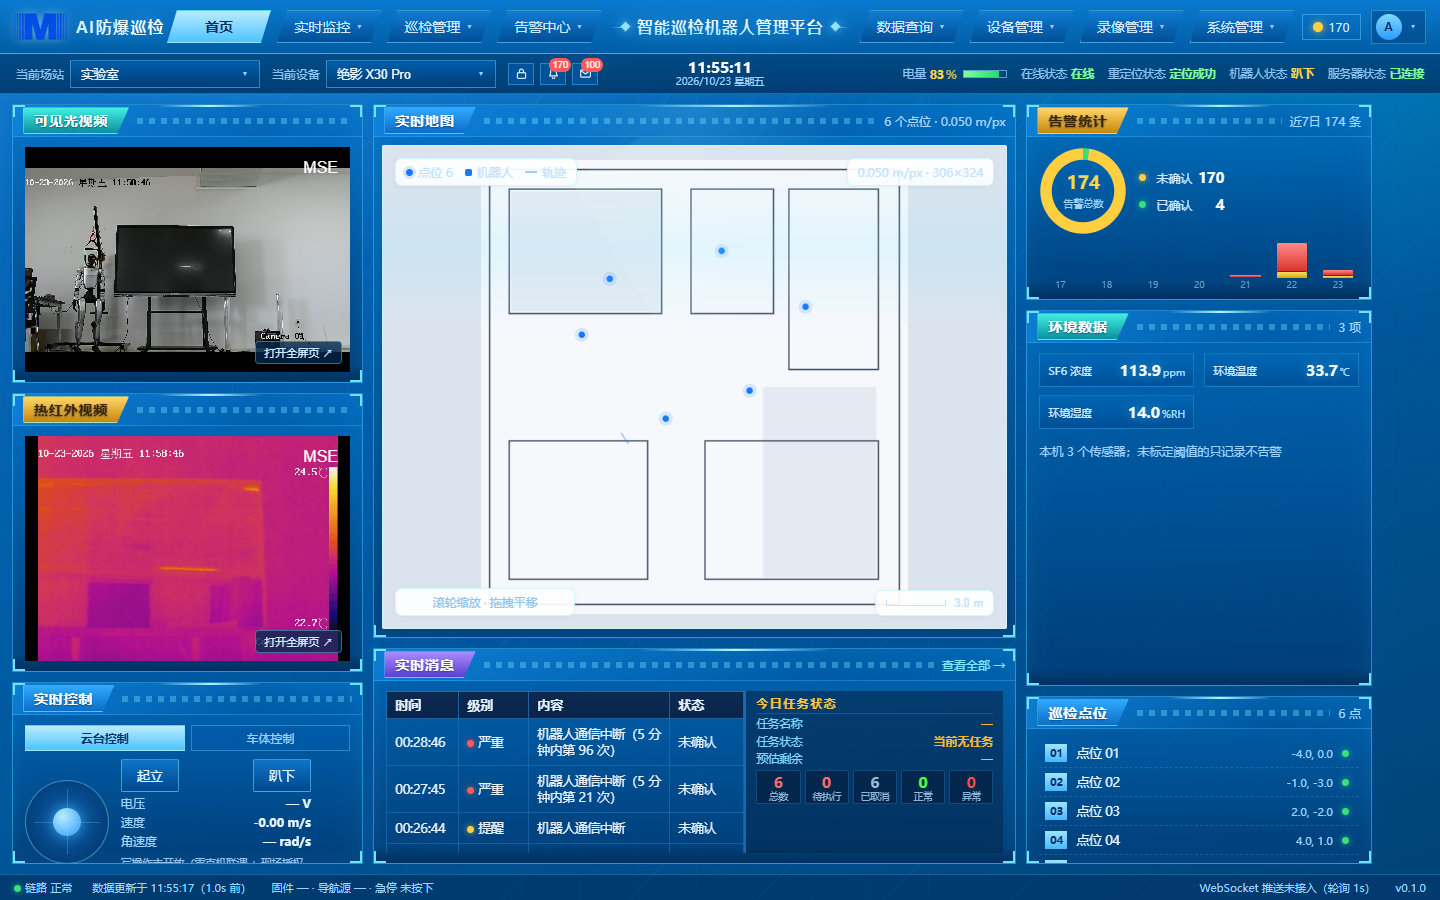
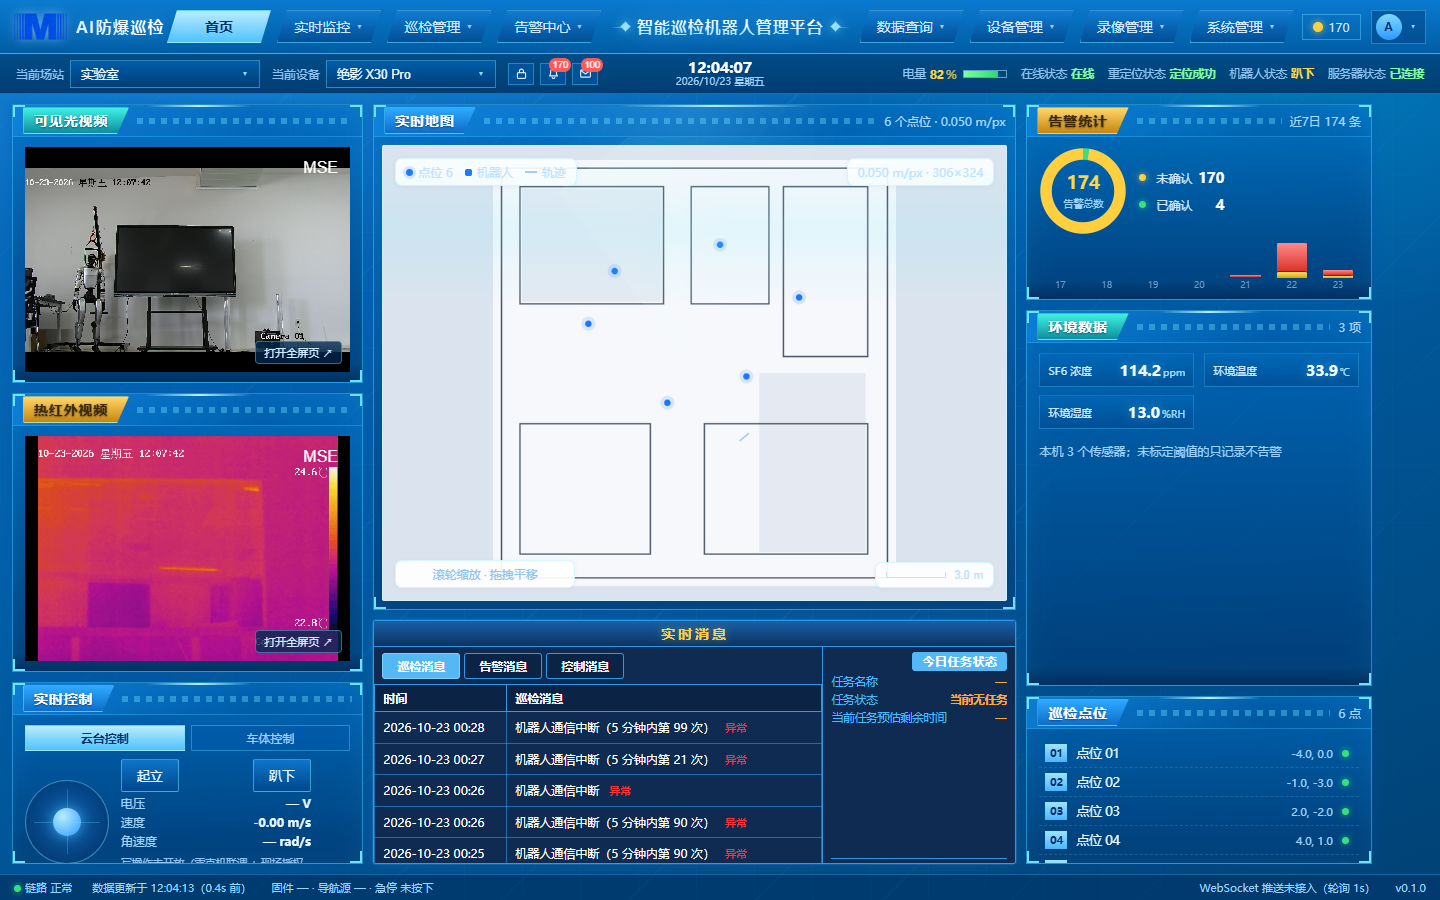
style(dashboard): 实时消息 1:1 复刻参考图（按豆包逐项描述的实现）
按"实时消息模块完整 UI 描述（1:1 复刻参考）"重写该模块，不再用通用 ScadaPanel：
- 标题：居中、金黄 #FFD040、字距 3px、轻微投影
- Tab：巡检消息/告警消息/控制消息；激活 #54B8F5 浅亮蓝 + 白字，未激活深蓝 #0B2344
- 表格：两列（时间 / 巡检消息），表头深蓝 #0B2344、1px #3098E8 网格线、正文纯白
- 右栏：浅蓝 #54B8F5 标题块「今日任务状态」，键 #48BCFF、值 #FFA82E 加粗
- 计数：三组 ↑ 红 #FF3333 / 白 #FFFFFF / 绿 #30D040，组下方小字标签，组间 #3098E8 竖线
- 栅格：左 70% / 竖分隔线 / 右 30%
- 容器：#0F2B52 底、1px #3098E8 边框、3px 微圆角、轻外发光

数据映射：
- 第一组 总数/待执行/已完成 ← task-runs 统计
- 第二组 终止/异常/正常 ← cancelled / failed / done
- 第三组 告警/异常/正常 ← 未确认告警 / 严重告警 / 已确认

高度 262px（原 158 太小，计数被裁）。

验证：docs/screenshots/msg-split.png、dash-jcrob.png

diff --git a/web/src/pages/Dashboard.vue b/web/src/pages/Dashboard.vue
@@ -154,6 +154,11 @@ function openVideo(which: string) {
   toast(`${which}通道未接入：真机联调后按 RTSP / WebRTC 接入`, 'warn', 3000)
 }
 const busyMotion = ref(false)
+const msgTab = ref<'patrol' | 'alarm' | 'ctrl'>('patrol')
+const msgRows = computed(() => robot.alarms.slice(0, 6))
+const alarmUnacked = computed(() => robot.alarms.filter((a) => !a.acked_at).length)
+const alarmAcked = computed(() => robot.alarms.filter((a) => !!a.acked_at).length)
+const alarmCritical = computed(() => robot.alarms.filter((a) => a.level === 'critical').length)
 
 // 今日任务状态（右半边）
 type RunRow = { id: number; name: string; status: string; steps?: number; ok?: number }
@@ -497,47 +502,58 @@ async function logout() {
           <p v-if="mapError" class="red small">{{ mapError }}</p>
         </ScadaPanel>
 
-        <ScadaPanel title="实时消息" tone="violet" class="h-msg" right="查看全部 →" right-to="alarms">
-          <div class="msg-split">
-          <div class="msg-main">
-          <table class="tbl">
-            <thead><tr><th>时间</th><th>级别</th><th>内容</th><th>状态</th></tr></thead>
-            <tbody>
-              <tr
-                v-for="a in robot.alarms.slice(0, 6)" :key="a.id"
-                class="clickable-row" title="点击查看告警" @click="goAlarms('unacked')"
-              >
-                <td>{{ a.started_at.slice(11, 19) }}</td>
-                <td><i class="dot" :class="a.level === 'critical' ? 'red' : 'gold'" />{{ a.level === 'critical' ? '严重' : '提醒' }}</td>
-                <td class="strong">{{ a.message }}</td>
-                <td :class="a.acked_at ? 'green' : 'red'">{{ a.acked_at ? '已确认' : '未确认' }}</td>
-              </tr>
-              <tr v-if="!robot.alarms.length">
-                <td colspan="4" class="dim">暂无消息 · 环境类阈值未标定，不会产生环境告警</td>
-              </tr>
-            </tbody>
-          </table>
-          </div>
+        <section class="rt">
+          <header class="rt-head"><span>实时消息</span></header>
+          <div class="rt-body">
+            <div class="rt-left">
+              <div class="rt-tabs">
+                <button :class="{ on: msgTab === 'patrol' }" @click="msgTab = 'patrol'">巡检消息</button>
+                <button :class="{ on: msgTab === 'alarm' }" @click="msgTab = 'alarm'">告警消息</button>
+                <button :class="{ on: msgTab === 'ctrl' }" @click="msgTab = 'ctrl'">控制消息</button>
+              </div>
+              <div class="rt-scroll">
+                <table class="rt-tbl">
+                  <thead><tr><th>时间</th><th>巡检消息</th></tr></thead>
+                  <tbody>
+                    <tr v-for="a in msgRows" :key="a.id" class="clickable-row"
+                        title="点击查看告警" @click="goAlarms('unacked')">
+                      <td class="c-time">{{ a.started_at.slice(0, 16).replace('T', ' ') }}</td>
+                      <td class="c-text">
+                        {{ a.message }}
+                        <i class="st" :class="a.acked_at ? 'g' : 'r'">{{ a.acked_at ? '正常' : '异常' }}</i>
+                      </td>
+                    </tr>
+                    <tr v-if="!msgRows.length"><td colspan="2" class="dim">暂无消息</td></tr>
+                  </tbody>
+                </table>
+              </div>
+            </div>
 
-          <div class="msg-side">
-            <div class="ms-head">今日任务状态</div>
-            <div class="ms-row"><span>任务名称</span><b>{{ currentRun?.name || '—' }}</b></div>
-            <div class="ms-row"><span>任务状态</span>
-              <b :class="currentRun?.status === 'running' ? 'green' : currentRun ? 'gold' : 'dim'">
-                {{ runStatusText }}
-              </b>
-            </div>
-            <div class="ms-row"><span>预估剩余</span><b>{{ runEta }}</b></div>
-            <div class="ms-counts">
-              <div><b class="c-total">{{ runStats.total }}</b><span>总数</span></div>
-              <div><b class="c-plan">{{ runStats.planned }}</b><span>待执行</span></div>
-              <div><b class="c-cancel">{{ runStats.cancelled }}</b><span>已取消</span></div>
-              <div><b class="c-done">{{ runStats.done }}</b><span>正常</span></div>
-              <div><b class="c-fail">{{ runStats.failed }}</b><span>异常</span></div>
-            </div>
+            <div class="rt-sep" />
+
+            <aside class="rt-right">
+              <div class="rt-tag">今日任务状态</div>
+              <div class="rt-line"><span>任务名称</span><b>{{ currentRun?.name || '—' }}</b></div>
+              <div class="rt-line"><span>任务状态</span><b>{{ runStatusText }}</b></div>
+              <div class="rt-line"><span>当前任务预估剩余时间</span><b>{{ runEta }}</b></div>
+
+              <div class="rt-groups">
+                <div class="rt-group">
+                  <div class="nums"><i class="r">{{ runStats.total }}</i><em>/</em><i class="w">{{ runStats.planned }}</i><em>/</em><i class="g">{{ runStats.done }}</i></div>
+                  <div class="caps"><span>总数</span><span>待执行</span><span>已</span></div>
+                </div>
+                <div class="rt-group">
+                  <div class="nums"><i class="r">{{ runStats.cancelled }}</i><em>/</em><i class="w">{{ runStats.failed }}</i><em>/</em><i class="g">{{ runStats.done }}</i></div>
+                  <div class="caps"><span>终止</span><span>异常</span><span>正常</span></div>
+                </div>
+                <div class="rt-group">
+                  <div class="nums"><i class="r">{{ alarmUnacked }}</i><em>/</em><i class="w">{{ alarmCritical }}</i><em>/</em><i class="g">{{ alarmAcked }}</i></div>
+                  <div class="caps"><span>告警</span><span>异常</span><span>正常</span></div>
+                </div>
+              </div>
+            </aside>
           </div>
-          </div>
-        </ScadaPanel>
+        </section>
       </main>
 
       <aside class="col right">
@@ -1214,4 +1230,132 @@ async function logout() {
 .ms-counts b.c-done { color: #4dff46; }
 .ms-counts b.c-fail { color: #ff4b45; }
 .ms-counts span { color: #8fb7d8; font-size: 9.5px; }
+
+/* ===== 实时消息：按参考图重做（豆包视觉说明） ===== */
+.h-msg { position: relative; }
+.h-msg :deep(.panel-body) { padding: 0; overflow: hidden; }
+.h-msg :deep(.panel-title) {
+  background: linear-gradient(180deg, #1e6fae 0%, #0b2b55 100%);
+  box-shadow: inset 0 1px 0 rgba(160, 240, 255, .55);
+}
+.msg-split { display: grid; grid-template-columns: 6fr 4fr; height: 100%; min-height: 0; }
+.msg-main { display: flex; flex-direction: column; min-width: 0; min-height: 0; }
+
+/* 三个 tab：选中亮青底深字，未选深蓝底浅字 */
+.msg-tabs { display: flex; gap: 3px; padding: 5px 6px 3px; flex: none; }
+.msg-tabs button {
+  flex: 1; padding: 4px 6px; font-size: 11.5px; font-weight: 600; cursor: pointer;
+  color: #bfd9ef; background: #0a2247; border: 1px solid rgba(37, 116, 187, .7);
+  border-radius: 2px; letter-spacing: .5px;
+}
+.msg-tabs button.on { background: #2fe0f0; color: #06253f; border-color: #7ff0ff; }
+
+.h-msg .tbl { table-layout: fixed; width: 100%; }
+.h-msg .tbl th {
+  background: #0a244b; color: #eaf3ff; font-size: 12px; font-weight: 700;
+  border: 1px solid rgba(37, 116, 187, .75); padding: 5px 8px;
+}
+.h-msg .tbl th:nth-child(1) { width: 108px; }
+.h-msg .tbl td {
+  border: 1px solid rgba(37, 116, 187, .55); padding: 6px 8px;
+  color: #eaf3ff; font-size: 12px; white-space: normal; line-height: 1.45;
+}
+.h-msg .tbl tbody tr:nth-child(even) td { background: transparent; }
+.h-msg .tbl tbody tr:hover td { background: rgba(47, 224, 240, .12); }
+.h-msg .tbl .t-time { color: #cfe6ff; font-variant-numeric: tabular-nums; white-space: nowrap; }
+.h-msg .tbl .t-state { font-style: normal; font-size: 10.5px; margin-left: 6px; padding: 0 4px; border-radius: 2px; }
+.h-msg .tbl .t-state.ok { color: #4dff46; border: 1px solid rgba(77, 255, 70, .5); }
+.h-msg .tbl .t-state.bad { color: #ff6a6e; border: 1px solid rgba(255, 106, 110, .5); }
+
+/* 右侧任务区：浅青标签 + 橙黄数值 + 三组红/绿计数 */
+.msg-side {
+  padding: 6px 10px 8px; border-left: 2px solid rgba(37, 116, 187, .85);
+  background: linear-gradient(180deg, rgba(10, 36, 75, .75), rgba(7, 25, 50, .55));
+  display: flex; flex-direction: column; gap: 4px; min-height: 0; overflow: hidden;
+}
+.ms-tag {
+  align-self: flex-end; background: #36cbe6; color: #06264a; font-weight: 700;
+  font-size: 11.5px; padding: 3px 9px; border-radius: 2px;
+  box-shadow: 0 0 10px rgba(54, 203, 230, .55); letter-spacing: 1px;
+}
+.ms-line { display: flex; justify-content: space-between; gap: 8px; align-items: baseline; font-size: 11.5px; }
+.ms-line span { color: #7fd8ff; }
+.ms-line b {
+  color: #ffb62e; font-weight: 700; max-width: 58%; text-align: right;
+  overflow: hidden; text-overflow: ellipsis; white-space: nowrap;
+}
+.ms-groups { display: grid; grid-template-columns: repeat(3, 1fr); gap: 6px; margin-top: auto; }
+.ms-group { border: 1px solid rgba(37, 116, 187, .55); border-radius: 2px; padding: 3px 4px; }
+.ms-group .nums { text-align: center; font-size: 15px; font-weight: 700; letter-spacing: 1px; color: #8fb7d8; }
+.ms-group .nums i { font-style: normal; text-shadow: 0 0 8px currentColor; }
+.ms-group .nums .r { color: #ff6a6e; }
+.ms-group .nums .g { color: #4dff46; }
+.ms-group .caps { display: flex; justify-content: space-around; font-size: 9px; color: #8fb7d8; }
+
+/* ===== 实时消息：1:1 复刻参考（配色用豆包给出的精确值） ===== */
+.rt {
+  height: 262px; flex: none; display: flex; flex-direction: column;
+  background: #0f2b52; border: 1px solid #3098e8; border-radius: 3px;
+  box-shadow: 0 0 0 1px rgba(48, 152, 232, .25), 0 0 12px rgba(48, 152, 232, .18);
+  overflow: hidden;
+}
+.rt-head {
+  height: 26px; flex: none; display: grid; place-items: center;
+  background: linear-gradient(180deg, #1760a8, #0d335f);
+  border-bottom: 1px solid #3098e8;
+}
+.rt-head span {
+  color: #ffd040; font-weight: 700; font-size: 14px; letter-spacing: 3px;
+  text-shadow: 0 0 8px rgba(255, 208, 64, .35);
+}
+.rt-body { flex: 1; min-height: 0; display: grid; grid-template-columns: 7fr 1px 3fr; }
+.rt-left { min-width: 0; display: flex; flex-direction: column; }
+.rt-tabs { display: flex; gap: 0; padding: 6px 8px 5px; flex: none; }
+.rt-tabs button {
+  padding: 4px 14px; font-size: 12px; font-weight: 600; cursor: pointer;
+  color: #ffffff; background: #0b2344; border: 1px solid #3098e8; border-radius: 3px;
+  margin-right: 4px;
+}
+.rt-tabs button.on { background: #54b8f5; color: #ffffff; border-color: #7fd0ff; }
+.rt-scroll { flex: 1; min-height: 0; overflow: auto; }
+.rt-tbl { width: 100%; border-collapse: collapse; table-layout: fixed; }
+.rt-tbl th {
+  color: #ffffff; font-size: 12px; font-weight: 700; text-align: left;
+  background: #0b2344; border: 1px solid #3098e8; padding: 5px 8px;
+}
+.rt-tbl th:first-child { width: 132px; }
+.rt-tbl td {
+  color: #ffffff; font-size: 11.5px; line-height: 1.45; padding: 5px 8px;
+  border: 1px solid rgba(48, 152, 232, .6); word-break: break-all;
+}
+.rt-tbl .c-time { color: #ffffff; font-variant-numeric: tabular-nums; white-space: nowrap; }
+.rt-tbl .st { font-style: normal; margin-left: 6px; font-size: 11px; }
+.rt-tbl .st.g { color: #30d040; }
+.rt-tbl .st.r { color: #ff3333; }
+.rt-tbl tbody tr:hover td { background: rgba(84, 184, 245, .14); }
+
+.rt-sep { background: #3098e8; }
+.rt-right { padding: 5px 8px 6px; display: flex; flex-direction: column; gap: 3px; min-height: 0; overflow: hidden; }
+.rt-tag {
+  align-self: flex-end; background: #54b8f5; color: #ffffff; font-weight: 700;
+  font-size: 11.5px; padding: 2px 10px; border-radius: 3px; letter-spacing: 1px;
+}
+.rt-line { display: flex; justify-content: space-between; gap: 8px; align-items: baseline; font-size: 11px; line-height: 1.35; }
+.rt-line span { color: #48bcff; white-space: nowrap; }
+.rt-line b {
+  color: #ffa82e; font-weight: 700; text-align: right; max-width: 62%;
+  overflow: hidden; text-overflow: ellipsis; white-space: nowrap;
+}
+.rt-groups { display: grid; grid-template-columns: repeat(3, 1fr); gap: 0; margin-top: auto; flex: none;
+  border-top: 1px solid #3098e8; padding-top: 4px; }
+.rt-group { padding: 0 4px; border-left: 1px solid #3098e8; min-width: 0; }
+.rt-group:first-child { border-left: 0; padding-left: 0; }
+.rt-group .nums { text-align: center; font-size: 16px; font-weight: 700; }
+.rt-group .nums i { font-style: normal; }
+.rt-group .nums em { font-style: normal; color: #7fb6dd; margin: 0 1px; }
+.rt-group .nums .r { color: #ff3333; text-shadow: 0 0 8px rgba(255, 51, 51, .45); }
+.rt-group .nums .w { color: #ffffff; }
+.rt-group .nums .g { color: #30d040; text-shadow: 0 0 8px rgba(48, 208, 64, .45); }
+.rt-group .caps { display: flex; justify-content: space-between; gap: 2px; font-size: 8.5px; color: #9fc4e8; white-space: nowrap; }
+.rt-group .caps span { transform: scale(.95); transform-origin: center; }
 </style>
